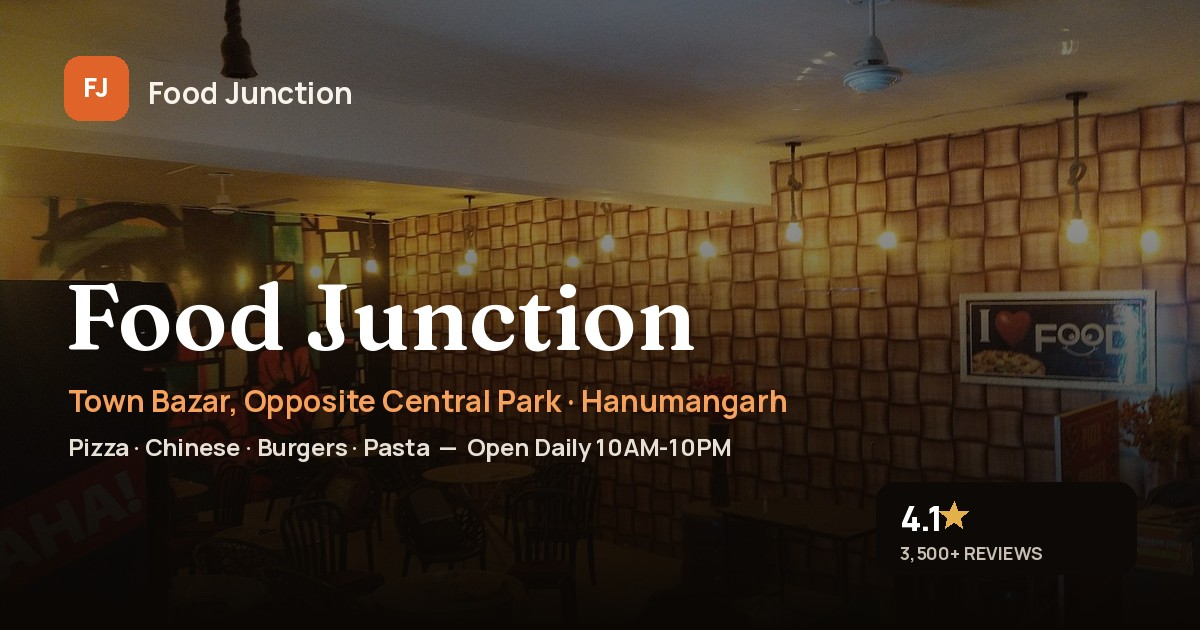
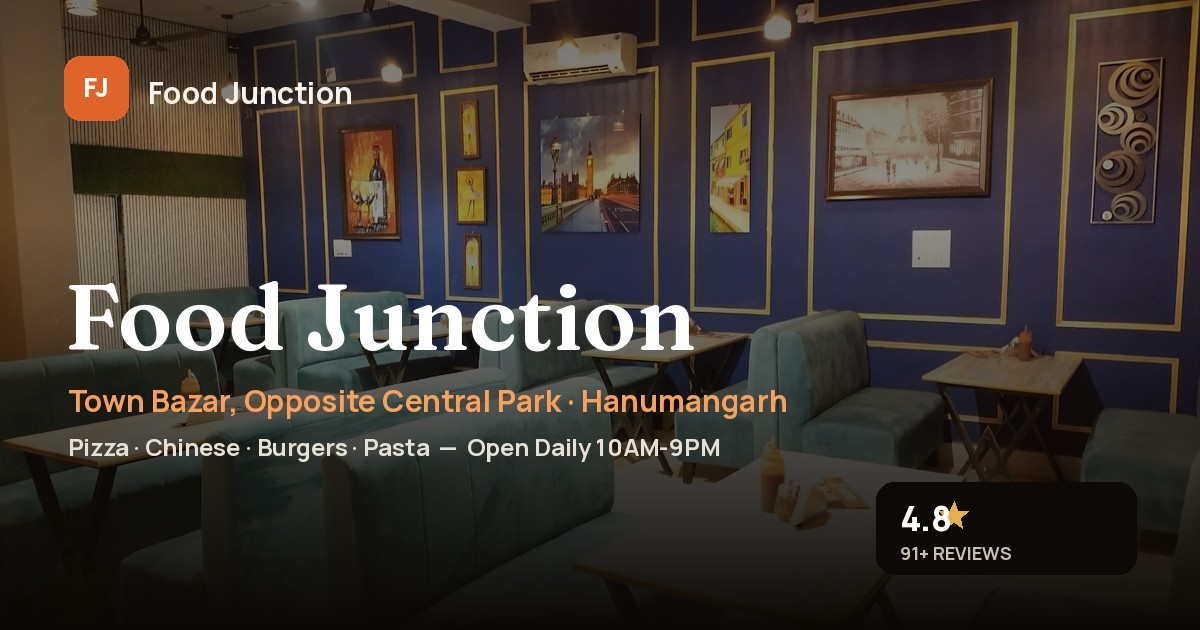
Update restaurant details and photos from verified Google Places data
Corrects hours (10PM->9PM close), adds official Google rating, and
replaces mirror-sourced interior photos with higher-quality official
Google Business photos. Adds a storefront signage shot to the gallery
and regenerates the OG share image to match.

diff --git a/src/data/restaurant.js b/src/data/restaurant.js
@@ -1,12 +1,13 @@
-// Verified public details for "Food Junction Town" (Opposite Central Park,
-// Hanumangarh Town Bazar branch — the correct location, per the owner),
-// cross-checked across its Zomato, Swiggy and Justdial listings.
+// Verified public details for "Food Junction" (Let's Chill With Pizza),
+// Opposite Central Park, Hanumangarh Town Bazar — cross-checked against its
+// official Google Business Profile (Places API) plus Zomato, Swiggy and
+// Justdial listings.
 
 export const restaurant = {
   name: 'Food Junction',
-  tagline: 'Town Bazar, Opposite Central Park',
+  tagline: "Let's Chill With Pizza",
   description:
-    "Located at Shanti Nursing Home, opposite Central Park in Hanumangarh Town Bazar, Food Junction Town runs a 45+ item pizza and pasta menu alongside Indo-Chinese classics, loaded burgers, wraps and shakes. Rated 4.0★ on Zomato (1,700+ reviews), 4.3★ on Swiggy (1,100+ ratings) and 4.1★ on Justdial (1,000+ reviews), it's the Town Bazar go-to for a quick bite or a full meal.",
+    "Located at Shanti Nursing Home, opposite Central Park in Hanumangarh Town Bazar, Food Junction runs a 45+ item pizza and pasta menu alongside Indo-Chinese classics, loaded burgers, wraps and shakes. Rated 4.8★ on Google, 4.0★ on Zomato (1,700+ reviews), 4.3★ on Swiggy (1,100+ ratings) and 4.1★ on Justdial (1,000+ reviews), it's the Town Bazar go-to for a quick bite or a full meal.",
   address: {
     line1: 'Shanti Nursing Home, Opposite Central Park',
     line2: 'Hanumangarh Town Bazar',
@@ -16,9 +17,9 @@ export const restaurant = {
     country: 'India',
   },
   phone: '+91 78775 63174',
-  hours: [{ day: 'Monday – Sunday', time: '10:00 AM – 10:00 PM' }],
-  rating: 4.1,
-  reviewCount: '3,500+',
+  hours: [{ day: 'Monday – Sunday', time: '10:00 AM – 9:00 PM' }],
+  rating: 4.8,
+  reviewCount: '91+',
   costForTwo: '₹149 for two (approx.)',
   cuisines: ['Pizza', 'Chinese', 'Burgers', 'Pasta', 'Fast Food', 'Beverages'],
   highlights: ['Simply Mania Pizza', 'Honey Chilli Potato', 'Loaded Burgers', 'Pizza + Garlic Bread Combo'],
@@ -29,6 +30,5 @@ export const restaurant = {
       'https://www.justdial.com/Hanumangarh/Food-Junction-Town-Opposite-Central-Park-Hanumangarh-town-bazar/9999P1552-1552-240313182821-W2R1_BZDET',
   },
   mapsQuery: 'Food Junction Town, Shanti Nursing Home, Opposite Central Park, Hanumangarh Town Bazar, Hanumangarh, Rajasthan 335513',
-  mapsLink:
-    'https://www.google.com/maps/dir/?api=1&destination=Food+Junction+Town+Opposite+Central+Park+Hanumangarh+Town+Bazar+Hanumangarh+Rajasthan&travelmode=driving',
+  mapsLink: 'https://maps.google.com/?cid=9230653665325555614',
 }

diff --git a/index.html b/index.html
@@ -6,7 +6,7 @@
     <meta name="viewport" content="width=device-width, initial-scale=1.0, viewport-fit=cover" />
     <meta
       name="description"
-      content="Food Junction Town, opposite Central Park in Hanumangarh Town Bazar. Pizza, Indo-Chinese, burgers, pasta and more. Open daily 10AM-10PM. Call, get directions, or order on Zomato/Swiggy."
+      content="Food Junction Town, opposite Central Park in Hanumangarh Town Bazar. Pizza, Indo-Chinese, burgers, pasta and more. Open daily 10AM-9PM. Call, get directions, or order on Zomato/Swiggy."
     />
 
     <meta name="theme-color" content="#e0632a" />
@@ -21,7 +21,7 @@
     <meta property="og:title" content="Food Junction | Town Bazar, Hanumangarh" />
     <meta
       property="og:description"
-      content="Pizza, Indo-Chinese, burgers, pasta and more, opposite Central Park in Hanumangarh Town Bazar. Open daily 10AM-10PM."
+      content="Pizza, Indo-Chinese, burgers, pasta and more, opposite Central Park in Hanumangarh Town Bazar. Open daily 10AM-9PM."
     />
     <meta property="og:url" content="https://food-junction.web.app/" />
     <meta property="og:image" content="https://food-junction.web.app/og-image.jpg" />
@@ -34,7 +34,7 @@
     <meta name="twitter:title" content="Food Junction | Town Bazar, Hanumangarh" />
     <meta
       name="twitter:description"
-      content="Pizza, Indo-Chinese, burgers, pasta and more, opposite Central Park in Hanumangarh Town Bazar. Open daily 10AM-10PM."
+      content="Pizza, Indo-Chinese, burgers, pasta and more, opposite Central Park in Hanumangarh Town Bazar. Open daily 10AM-9PM."
     />
     <meta name="twitter:image" content="https://food-junction.web.app/og-image.jpg" />
 

diff --git a/src/components/Gallery.jsx b/src/components/Gallery.jsx
@@ -1,6 +1,7 @@
 import Reveal from './Reveal'
 import interiorDiningRoom from '../assets/restaurant/interior-dining-room.jpg'
 import interiorWallArt from '../assets/restaurant/interior-wall-art.jpg'
+import storefrontSignage from '../assets/restaurant/storefront-signage.jpg'
 import burgerCover from '../assets/restaurant/burger-cover.jpg'
 import pizzaBanner from '../assets/restaurant/pizza-banner.jpg'
 import honeyChilliPotato from '../assets/restaurant/honey-chilli-potato.jpg'
@@ -8,6 +9,7 @@ import chilliPotato from '../assets/restaurant/chilli-potato.jpg'
 
 const cards = [
   { photo: interiorDiningRoom, label: 'The Dining Room', wide: true },
+  { photo: storefrontSignage, label: 'Find Us Here', wide: true },
   { photo: interiorWallArt, label: 'Wall Art & Seating' },
   { photo: burgerCover, label: 'Loaded Burger' },
   { photo: pizzaBanner, label: 'Fresh From The Oven' },

diff --git a/src/components/Highlights.jsx b/src/components/Highlights.jsx
@@ -2,7 +2,7 @@ import { restaurant } from '../data/restaurant'
 
 const stats = [
   { value: `${restaurant.rating}★`, label: `${restaurant.reviewCount} Reviews` },
-  { value: '10AM–10PM', label: 'Open Daily' },
+  { value: '10AM–9PM', label: 'Open Daily' },
   { value: restaurant.cuisines.length, label: 'Cuisines' },
   { value: '45+', label: 'Menu Items' },
 ]
